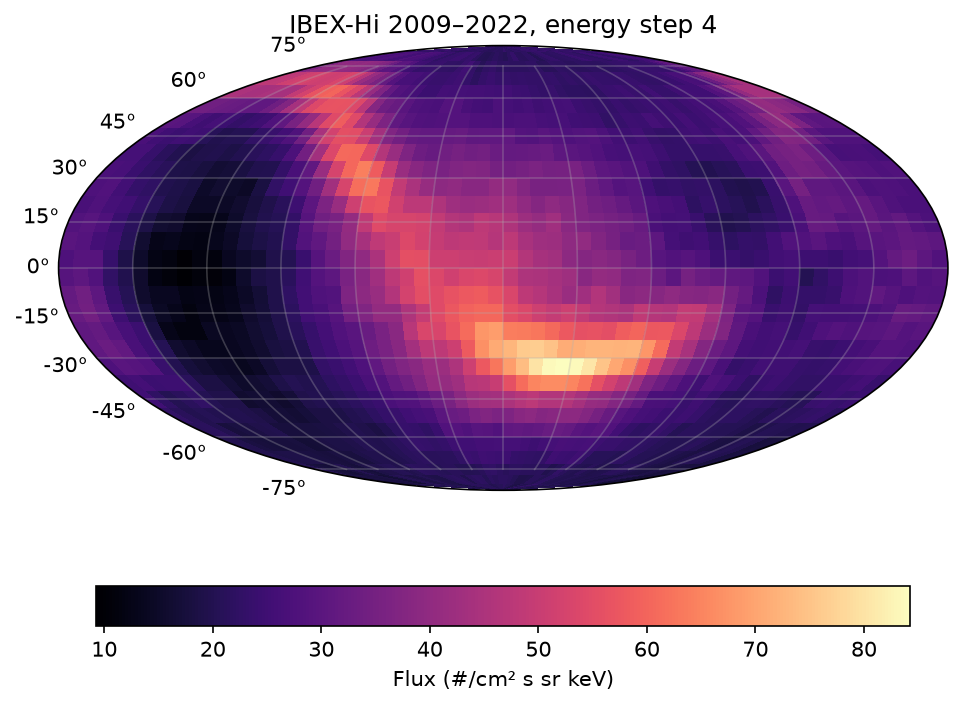
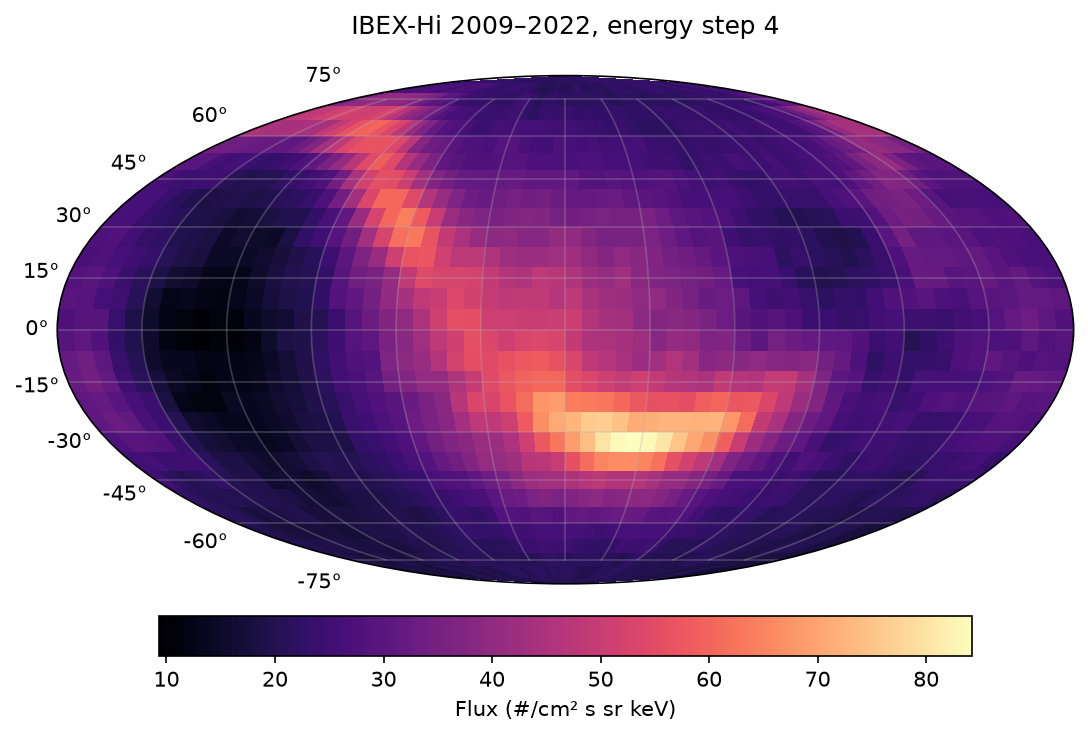
Add run_pipeline.sh to run the full pipeline from cron with logging

diff --git a/README.md b/README.md
@@ -16,7 +16,7 @@ This is a learning project for practicing data pipelines, Python, Bash, and Git.
 - [x] Read a map file and check it against its header
 - [x] Plot an all-sky map
 - [x] Compare the same maps across releases 16 and 18
-- [ ] Run the pipeline on a schedule with cron and log the results
+- [x] Run the pipeline on a schedule with cron and log the results
 - [ ] Add a status report (last run, disk usage, errors)
 - [ ] Add GitLab CI for style checks and tests
 
